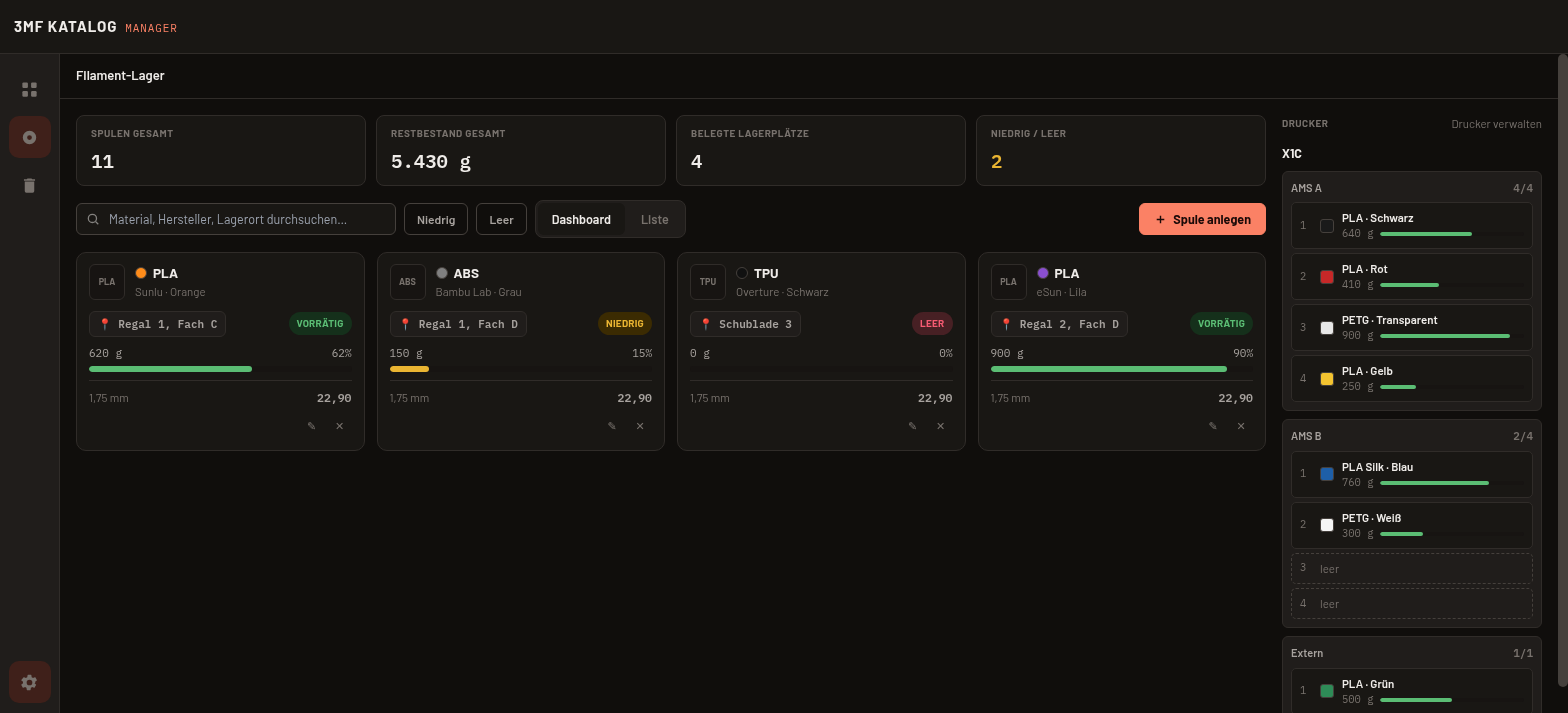
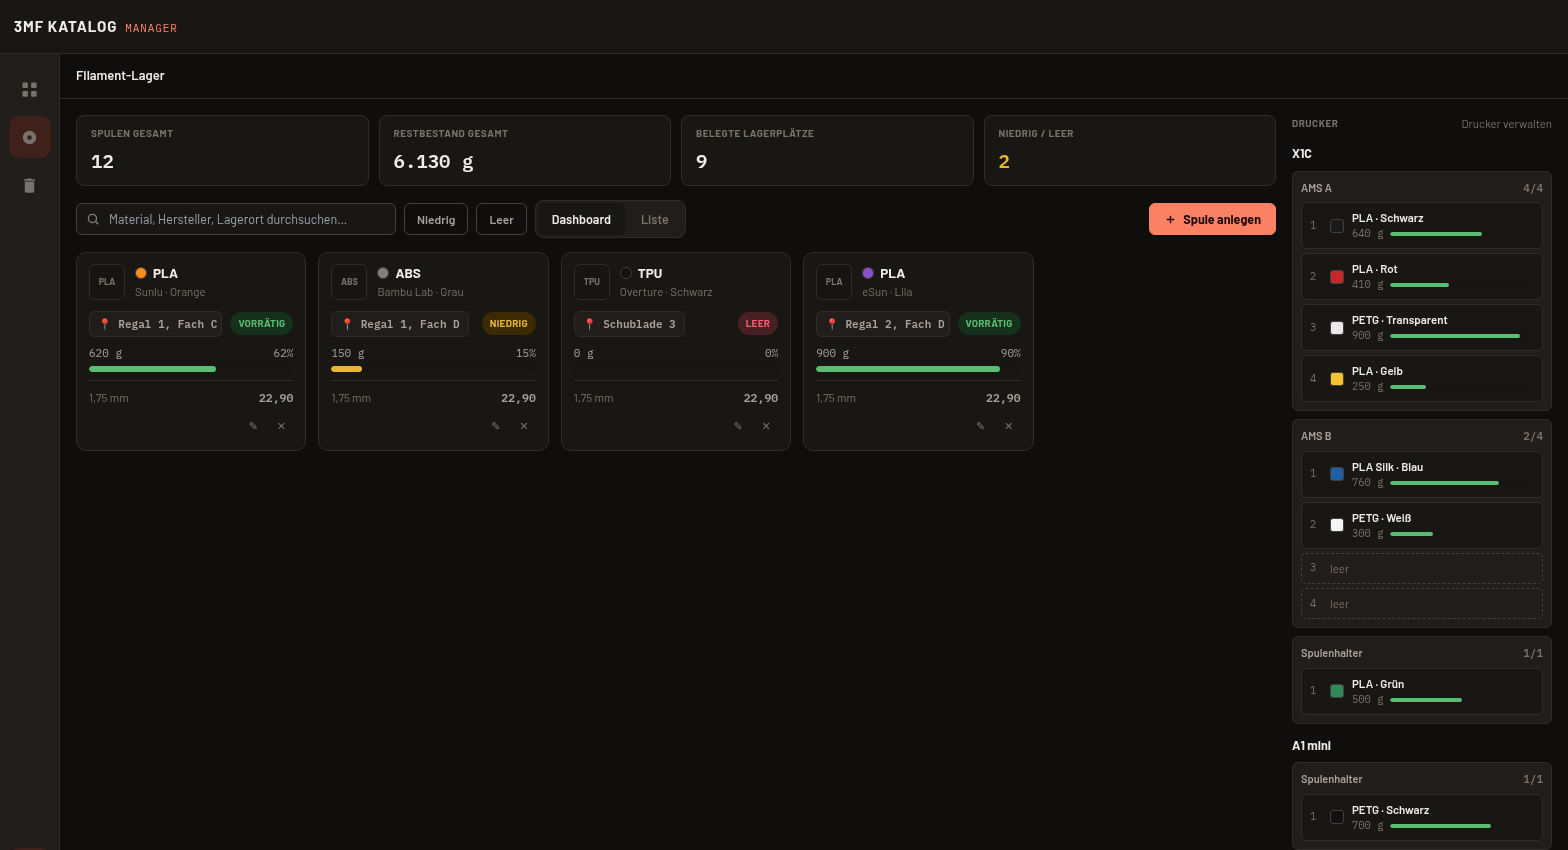
Docs: Spulenhalter fuer Drucker ohne AMS

diff --git a/CHANGELOG.md b/CHANGELOG.md
@@ -11,7 +11,7 @@ Rückwirkend versioniert am 2026-09-12: das Projekt lief bis dahin komplett unte
 
 - Archive direkt entpacken: Über „Importieren → Dateien…" oder per Drag & Drop hinzugefügte Archive (`.zip`, `.7z`, `.rar` (RAR4/RAR5), `.tar`, `.tar.gz`/`.tgz`, `.tar.bz2`/`.tbz2`, `.tar.xz`/`.txz`, `.tar.zst`/`.tzst`) öffnen einen Dialog: Zielordner (vorbelegt mit dem aktiven Katalogordner bzw. dem Speicherort), je Archiv ein eigener Unterordner, bei bereits vorhandenem Ordner Wahl zwischen „neuer nummerierter Ordner" und „zusammenführen" (vorhandene Dateien bleiben unverändert), optional Löschen der Original-Archive nach dem Entpacken (standardmäßig aus; ein Archiv wird nur gelöscht, wenn alle Einträge entpackt wurden – wurde etwas übersprungen, bleibt es liegen und das Ergebnis-Banner nennt den Grund). Enthaltene Bilder, Anleitungen und Lizenzdateien bleiben neben den Modellen erhalten. Der Ordner-Import entpackt weiterhin nichts.
 - Schutz beim Entpacken: Einträge mit `..`, absoluten Pfaden oder Laufwerksbuchstaben (Zip-Slip) sowie Symlinks werden übersprungen. Ausführbare Dateien, Skripte und Verknüpfungen (`.exe`, `.bat`, `.ps1`, `.lnk`, `.url`, `desktop.ini`, `.desktop`, `.app` u. a.) werden grundsätzlich nicht entpackt. Kein Eintrag darf in geschützte Systembereiche schreiben, entpackte Dateien sind nie ausführbar, und die „Aus dem Internet"-Markierung des Downloads (Windows Mark-of-the-Web, macOS-Quarantäne) wird auf die entpackten Dateien übertragen. Pro Archiv gelten höchstens 2 GB entpackt und 10 000 Einträge (auch gegen gefälschte Größenangaben), dazu Speichergrenzen für die Dekompression. RAR-Einträge werden einzeln im Speicher entpackt; ein Eintrag über 1 GB lässt das ganze Archiv scheitern (bereits Entpacktes wird entfernt). Datei-Verweise in RAR-Archiven (mit `rar -oi` erzeugte Datei-Kopie-/Hardlink-Einträge) übernehmen nie den Inhalt der referenzierten Datei: Sie werden übersprungen, ergeben bei Größe 0 eine leere Datei oder lassen bei einem Prüfsummenfehler das ganze Archiv scheitern. Entpackt werden nur Archive, die tatsächlich über den Dateidialog oder per Drag & Drop hereingekommen sind (vom Backend selbst geprüft). Als Zielordner sind nur Katalogordner oder ein in einem Ordner-Auswahldialog der App gewählter Ordner möglich; Ordner, die geschützte Bereiche enthalten (z. B. das Home-Verzeichnis selbst), sind als Ziel gesperrt. Bei einem Fehler wird alles bereits Entpackte wieder entfernt.
-- Filament-Lager: **Drucker & AMS-Fächer**. Drucker und ihre Mehrfarbeinheiten lassen sich über „Drucker verwalten" anlegen – mit Vorlagen für Bambu AMS/AMS lite/AMS HT, Creality CFS, Prusa MMU3, Anycubic ACE Pro und externe Spule oder als eigene Einheit mit 1–16 Fächern; Name und Reihenfolge änderbar. Spulen kommen per Drag & Drop oder über das Menü am Fach hinein; bei einem belegten Fach kehrt die Spule, die schon im Fach steckt, an ihren Stammplatz zurück, von Fach zu Fach wird verschoben. Eingelegte Spulen stehen in einer eigenen Spalte rechts neben dem Lager und zählen weiter im Gesamtbestand. Beim Herausnehmen kehrt eine Spule automatisch an ihren Stammplatz zurück (Hinweis mit „Ändern"). Löschen einer Einheit oder eines Druckers schickt deren Spulen ebenfalls zurück.
+- Filament-Lager: **Drucker & AMS-Fächer**. Drucker und ihre Mehrfarbeinheiten lassen sich über „Drucker verwalten" anlegen – mit Vorlagen für Bambu AMS/AMS lite/AMS HT, Creality CFS, Prusa MMU3, Anycubic ACE Pro und Spulenhalter oder als eigene Einheit mit 1–16 Fächern; Name und Reihenfolge änderbar; jeder neue Drucker erhält automatisch einen Spulenhalter (1 Fach), damit auch Drucker ohne AMS direkt eine Spule aufnehmen. Spulen kommen per Drag & Drop oder über das Menü am Fach hinein; bei einem belegten Fach kehrt die Spule, die schon im Fach steckt, an ihren Stammplatz zurück, von Fach zu Fach wird verschoben. Eingelegte Spulen stehen in einer eigenen Spalte rechts neben dem Lager und zählen weiter im Gesamtbestand. Beim Herausnehmen kehrt eine Spule automatisch an ihren Stammplatz zurück (Hinweis mit „Ändern"). Löschen einer Einheit oder eines Druckers schickt deren Spulen ebenfalls zurück.
 - Filament-Lager: Spulen haben jetzt einen **Farbwert** (Palette mit 16 gängigen Filamentfarben oder Hex-Eingabe) zusätzlich zum Farbnamen; bekannte Farbnamen bestehender Spulen (z. B. „Schwarz", „Galaxy Black", „Dunkelblau") werden beim Update automatisch umgesetzt.
 
 ### Fixed
@@ -362,7 +362,7 @@ Versioned retroactively on 2026-09-12: the project ran entirely under the scaffo
 
 - Extract archives directly: archives added via "Import → Files…" or drag & drop (`.zip`, `.7z`, `.rar` (RAR4/RAR5), `.tar`, `.tar.gz`/`.tgz`, `.tar.bz2`/`.tbz2`, `.tar.xz`/`.txz`, `.tar.zst`/`.tzst`) open a dialog: target folder (prefilled with the active catalog folder or the storage location), one subfolder per archive, a choice between "new numbered folder" and "merge" when the folder already exists (existing files stay unchanged), and optional deletion of the original archives after extraction (off by default; an archive is only deleted when every entry was extracted – if anything was skipped, it stays in place and the result banner names the reason). Images, instructions, and license files inside stay next to the models. Folder import still does not extract anything.
 - Extraction safety: entries with `..`, absolute paths, or drive letters (zip slip) and symlinks are skipped. Executables, scripts, and shortcuts (`.exe`, `.bat`, `.ps1`, `.lnk`, `.url`, `desktop.ini`, `.desktop`, `.app`, etc.) are never extracted. No entry may write into protected system locations, extracted files are never executable, and the download's "from the internet" mark (Windows Mark-of-the-Web, macOS quarantine) is carried over to the extracted files. Each archive is limited to 2 GB unpacked and 10,000 entries (also against forged size headers), plus memory limits for decompression. RAR entries are extracted one at a time in memory; an entry over 1 GB makes the whole archive fail (anything already extracted is removed). File references in RAR archives (file-copy/hardlink entries created with `rar -oi`) never take over the content of the referenced file: they are skipped, yield an empty file when their size is 0, or make the whole archive fail on a checksum error. Only archives that actually came in through the file dialog or drag & drop are extracted (verified by the backend itself). Only catalog folders or a folder chosen in one of the app's folder-selection dialogs can be the target; folders that contain protected locations (e.g. the home directory itself) are blocked as a target. On any error everything already extracted is removed again.
-- Filament storage: **printers & AMS slots**. Printers and their multi-material units can be added via "Manage printers" – with templates for Bambu AMS/AMS lite/AMS HT, Creality CFS, Prusa MMU3, Anycubic ACE Pro and external spool, or as a custom unit with 1–16 slots; name and order can be changed. Spools go in by drag & drop or via the slot menu; loading into an occupied slot sends the spool already there back to its home location, slot to slot moves the spool. Loaded spools are listed in their own column to the right of the storage and still count towards the total stock. When unloaded, a spool automatically returns to its home location (notice with "Change"). Deleting a unit or printer sends its spools back as well.
+- Filament storage: **printers & AMS slots**. Printers and their multi-material units can be added via "Manage printers" – with templates for Bambu AMS/AMS lite/AMS HT, Creality CFS, Prusa MMU3, Anycubic ACE Pro and spool holder, or as a custom unit with 1–16 slots; name and order can be changed; every new printer automatically gets a spool holder (1 slot), so printers without an AMS can take a spool right away. Spools go in by drag & drop or via the slot menu; loading into an occupied slot sends the spool already there back to its home location, slot to slot moves the spool. Loaded spools are listed in their own column to the right of the storage and still count towards the total stock. When unloaded, a spool automatically returns to its home location (notice with "Change"). Deleting a unit or printer sends its spools back as well.
 - Filament storage: spools now have a **color value** (palette of 16 common filament colors or hex input) in addition to the color name; known color names of existing spools (e.g. "Black", "Galaxy Black", "Dark blue") are converted automatically on update.
 
 ### Fixed

diff --git a/README.md b/README.md
@@ -36,7 +36,7 @@ Beide Varianten sind ansonsten funktionsgleich. Die Downloads sind unsigniert (s
 - **Mehrsprachige Oberfläche** — Deutsch, Englisch, Spanisch, Französisch, umschaltbar zur Laufzeit
 - **Hell-/Dunkel-Theme** mit System-Erkennung und manueller Auswahl, persistiert lokal
 - **Filament-Lager** — eigenständige Verwaltung deiner Filamentspulen (Material, Hersteller, Farbe, Lagerort, Durchmesser, Ursprungs-/Restgewicht, Preis) mit Autocomplete für Material/Hersteller/Lagerort, unabhängig vom Modell-Katalog; umschaltbar zwischen Karten-Dashboard (Bestandsbalken, Statusfarbe) und sortierbarer Inventarliste, inkl. Statistik-Leiste und Status-Filter; beim Neuanlegen lassen sich mehrere identische Spulen auf einmal erfassen (jede mit eigenem, unabhängig verfolgtem Restbestand)
-- **Drucker & AMS-Fächer** — Drucker und ihre Mehrfarbeinheiten (Bambu AMS, AMS lite, AMS HT, Creality CFS, Prusa MMU3, Anycubic ACE Pro, externe Spule oder eigene mit frei wählbarer Fachanzahl) anlegen und Spulen per Drag & Drop oder Klick in die Fächer legen. Spulen im Drucker erscheinen getrennt vom Lager in einer eigenen Spalte; beim Herausnehmen kehren sie automatisch an ihren Stammplatz zurück. Spulen haben einen echten Farbwert (Palette oder Hex) zusätzlich zum Farbnamen.
+- **Drucker & AMS-Fächer** — Drucker und ihre Mehrfarbeinheiten (Bambu AMS, AMS lite, AMS HT, Creality CFS, Prusa MMU3, Anycubic ACE Pro, Spulenhalter oder eigene mit frei wählbarer Fachanzahl) anlegen und Spulen per Drag & Drop oder Klick in die Fächer legen. Jeder neue Drucker bekommt automatisch einen Spulenhalter, sodass auch Drucker ohne AMS sofort eine Spule aufnehmen. Spulen im Drucker erscheinen getrennt vom Lager in einer eigenen Spalte; beim Herausnehmen kehren sie automatisch an ihren Stammplatz zurück. Spulen haben einen echten Farbwert (Palette oder Hex) zusätzlich zum Farbnamen.
 - **Katalog-Erweiterungen** — Druckstatus-Toggle + Gewicht pro Modell (echter Wert aus dem Slicer, falls die 3mf bereits gesliced wurde, sonst grobe Schätzung aus Volumen × Materialdichte), Sortierung nach "Zuletzt angesehen", NEU-Badge für kürzlich importierte Modelle, Creators-Filter (aus 3MF-Designer-Metadatum), automatische Erkennung exakter Datei-Duplikate beim Import per Inhalts-Hash
 - **Filamentverbrauch aus dem Slicer** — liest den in OrcaSlicer/Bambu Studio gesliceten Filamentverbrauch (`Metadata/slice_info.config`) mit aus: reales Gewicht statt Schätzung, Aufschlüsselung pro Druckplatte und Filament (Typ, Farbe, Gramm, Meter) auf der Modell-Detailseite; Button "Metadaten neu einlesen" holt die Werte nachträglich, wenn eine bereits katalogisierte Datei in OrcaSlicer/Bambu Studio nachgesliced wurde
 - **Materialkosten-Schätzung** — bei Modellen mit echtem Slicer-Filamentverbrauch zusätzlich eine geschätzte Materialkosten-Summe auf der Detailseite, berechnet aus Verbrauch und den Preisen passender Spulen im Filament-Lager
@@ -162,7 +162,7 @@ Both variants are otherwise feature-identical. Downloads are unsigned (see [Stat
 - **Multilingual UI** — German, English, Spanish, French, switchable at runtime
 - **Light/dark theme** with system detection and manual selection, persisted locally
 - **Filament inventory** — standalone management of your filament spools (material, manufacturer, color, storage location, diameter, original/remaining weight, price) with autocomplete for material/manufacturer/location, independent of the model catalog; toggleable between a card dashboard (stock bar, status color) and a sortable inventory list, including a stats bar and status filters; when adding new spools, several identical ones can be created at once (each with its own independently tracked remaining stock)
-- **Printers & AMS slots** — add printers and their multi-material units (Bambu AMS, AMS lite, AMS HT, Creality CFS, Prusa MMU3, Anycubic ACE Pro, external spool, or custom with any slot count) and put spools into slots by drag & drop or click. Loaded spools are shown separately from storage in their own column; when unloaded they automatically return to their home location. Spools have a real color value (palette or hex) in addition to the color name.
+- **Printers & AMS slots** — add printers and their multi-material units (Bambu AMS, AMS lite, AMS HT, Creality CFS, Prusa MMU3, Anycubic ACE Pro, spool holder, or custom with any slot count) and put spools into slots by drag & drop or click. Every new printer automatically gets a spool holder, so printers without an AMS can take a spool right away. Loaded spools are shown separately from storage in their own column; when unloaded they automatically return to their home location. Spools have a real color value (palette or hex) in addition to the color name.
 - **Catalog extensions** — print-status toggle + weight per model (real value from the slicer if the 3mf has already been sliced, otherwise a rough estimate from volume × material density), sorting by "last viewed", NEW badge for recently imported models, creators filter (from the 3MF designer metadata), automatic detection of exact file duplicates on import via content hash
 - **Filament usage from the slicer** — reads the filament usage sliced in OrcaSlicer/Bambu Studio (`Metadata/slice_info.config`): real weight instead of an estimate, breakdown per build plate and filament (type, color, grams, meters) on the model detail page; "Rescan metadata" button retrieves the values afterward if an already-catalogued file was re-sliced in OrcaSlicer/Bambu Studio
 - **Material cost estimate** — for models with real slicer filament usage, an additional estimated material cost on the detail page, computed from consumption and the prices of matching spools in the filament inventory

diff --git a/docs/benutzerhandbuch/BENUTZERHANDBUCH.md b/docs/benutzerhandbuch/BENUTZERHANDBUCH.md
@@ -307,10 +307,15 @@ eingelegte Spulen erscheinen dann in einer eigenen Spalte rechts neben dem Lager
 
 ![Drucker & AMS-Fächer](bilder/22-drucker-ams.png)
 
-1. Über "Drucker verwalten" legst du einen Drucker an und fügst ihm über "+ Einheit hinzufügen"
+1. Über "Drucker verwalten" legst du einen Drucker an — er bekommt dabei automatisch einen
+   "Spulenhalter" (1 Fach); bei einem Drucker ohne AMS ist das zunächst sein einziges Fach, du
+   kannst ihn aber jederzeit löschen. Über "+ Einheit hinzufügen" fügst du weitere
    Mehrfarbeinheiten hinzu — entweder aus Vorlagen (Bambu AMS/AMS lite/AMS HT, Creality CFS,
-   Prusa MMU3, Anycubic ACE Pro, externe Spule) oder als "Eigene…" mit frei wählbarer
-   Fachanzahl. Die Reihenfolge der Einheiten änderst du per Griff.
+   Prusa MMU3, Anycubic ACE Pro, Spulenhalter) oder als "Eigene…" mit frei wählbarer
+   Fachanzahl. Die Reihenfolge der Einheiten änderst du per Griff. Hat ein Drucker gar keine
+   Fächer mehr (z. B. nach dem Löschen des Spulenhalters), zeigt seine Spalte den Hinweis
+   "Keine Fächer – über „Drucker verwalten" hinzufügen"; ein Klick darauf öffnet direkt die
+   Drucker-Verwaltung.
 2. Eine Spule einlegen: Karte oder Zeile aus dem Lager auf ein Fach ziehen — oder das Fach
    anklicken und eine Spule aus der Liste auswählen. Ist das Fach bereits belegt, kehrt die
    Spule, die schon im Fach steckt, an ihren Stammplatz zurück.
@@ -737,10 +742,14 @@ loaded spools then appear in their own column to the right of the stock.
 
 ![Printers & AMS slots](bilder/22-drucker-ams.png)
 
-1. Use "Manage printers" to add a printer, then add multi-material units to it via "+ Add
-   unit" — either from templates (Bambu AMS/AMS lite/AMS HT, Creality CFS, Prusa MMU3,
-   Anycubic ACE Pro, external spool) or as "Custom…" with any slot count you like. Reorder
-   units by their drag handle.
+1. Use "Manage printers" to add a printer — it automatically gets a "Spool holder" unit (1
+   slot); for a printer without an AMS this is initially its only slot, but you can delete it
+   at any time. Then add more multi-material units to it via "+ Add unit" — either from
+   templates (Bambu AMS/AMS lite/AMS HT, Creality CFS, Prusa MMU3, Anycubic ACE Pro, Spool
+   holder) or as "Custom…" with any slot count you like. Reorder units by their drag handle. If
+   a printer ends up with no slots at all (e.g. after deleting its spool holder), its column
+   shows the hint "No slots – add them via “Manage printers”"; clicking it opens printer
+   management directly.
 2. Loading a spool: drag a card or row from the stock onto a slot — or click the slot and pick
    a spool from the list. If the slot is already occupied, the spool already in it returns to
    its home location.
